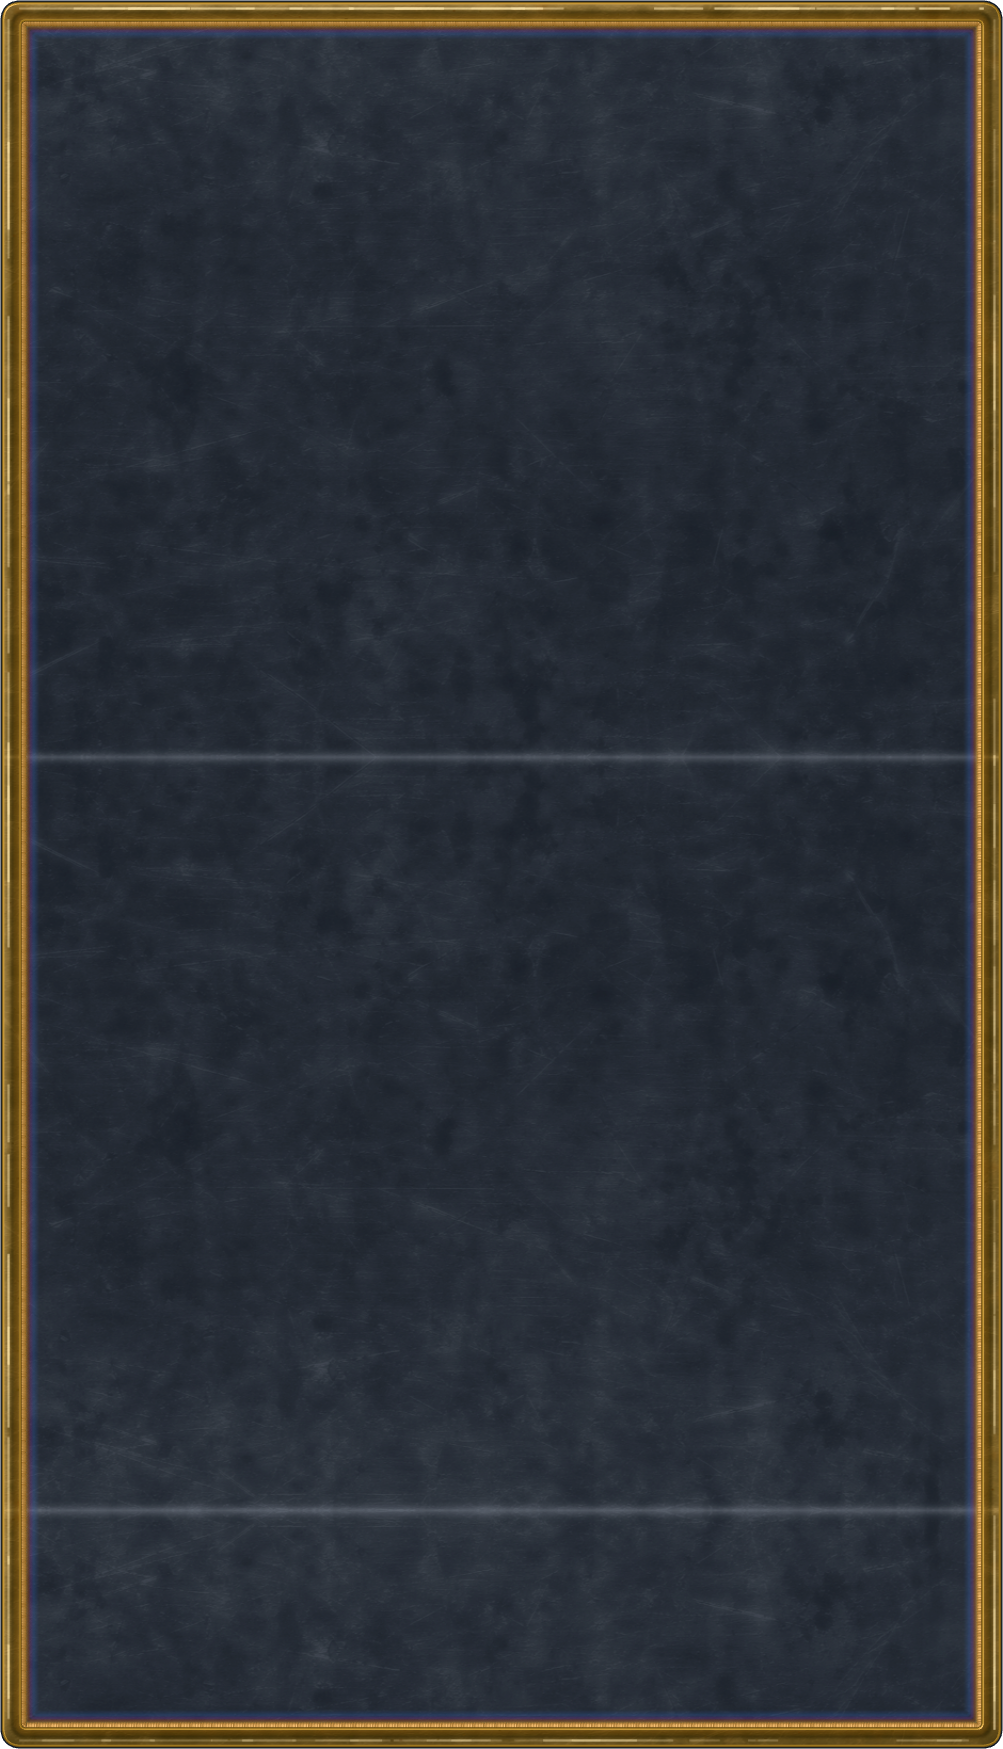
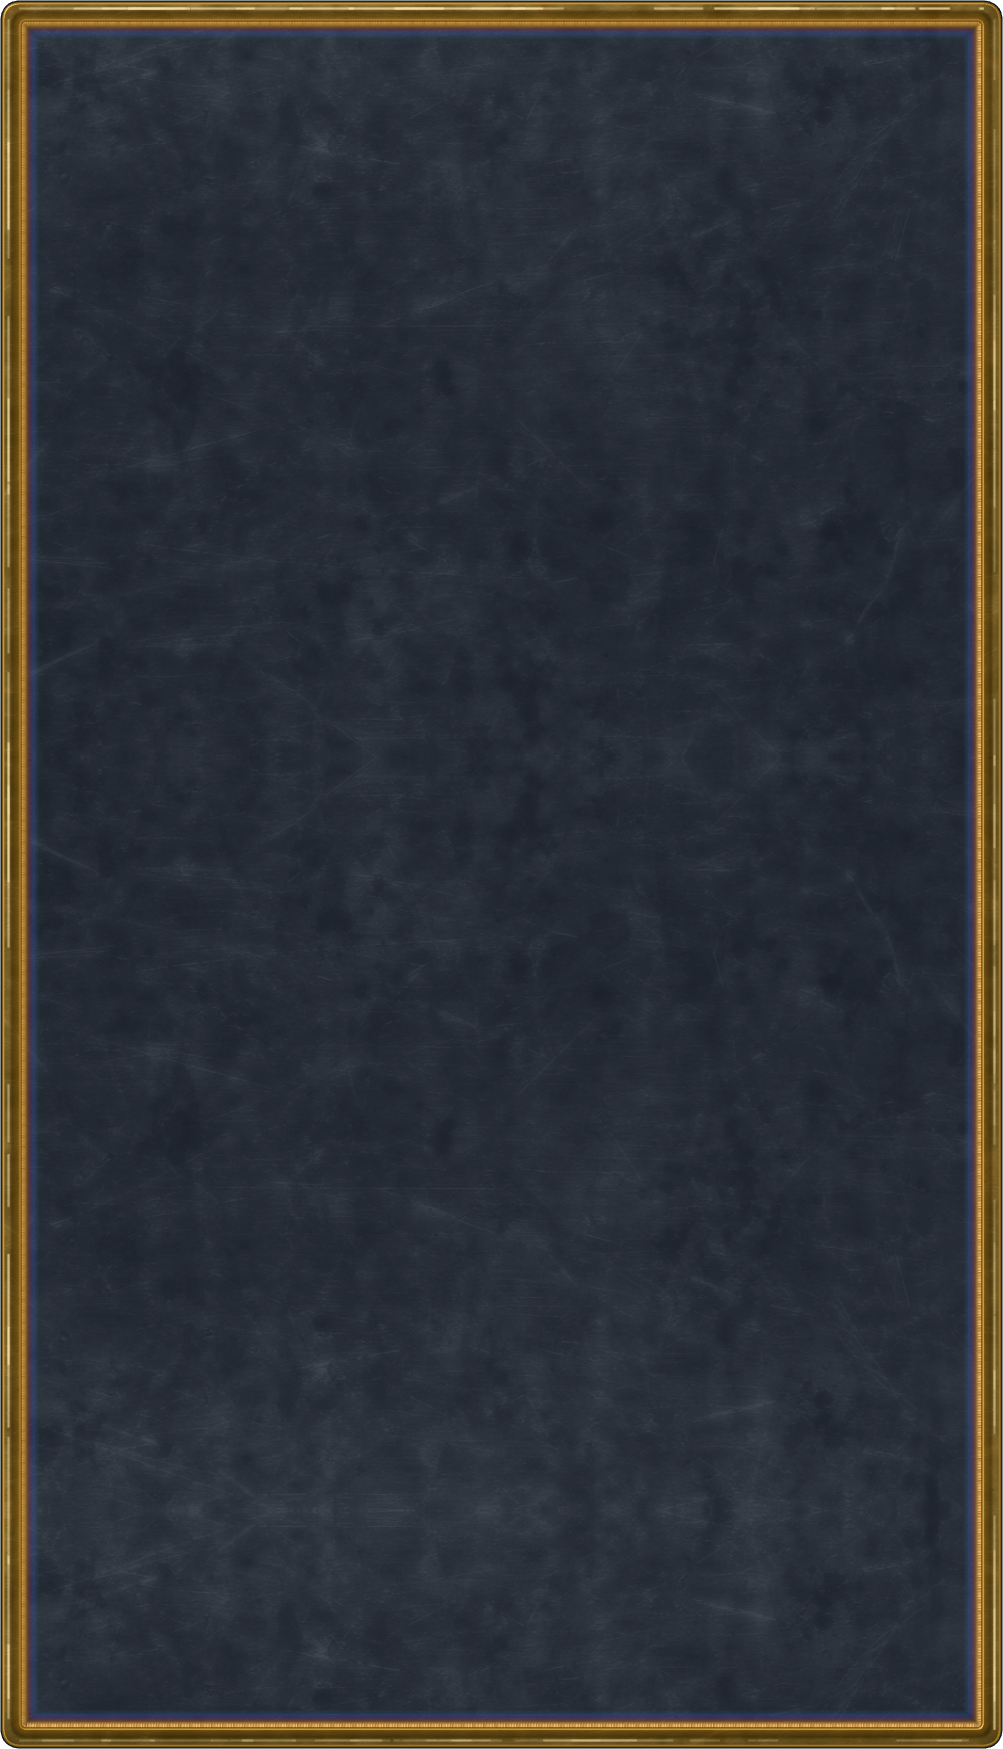
Fix the backing's light seam and a gauge socket left below its gauge
The panel backing's steel was blurred on its own, so the blur faded the
texture's edges, and the plate repeats the texture mirrored: the fade showed
as a light band across the panel partway down. Every steel and brass canvas
in the render now blurs from a mirror-padded copy (drawBlurred), and the
backing is re-rendered.

The cost card painted each gauge's socket from positions read at draw time.
When the rows moved without the card changing size, the socket stayed where
the gauge had been. Each gauge's holder now paints its own socket in its own
coordinates.

diff --git a/price-of-everything-0.1/tools/button_mockup/cluster.html b/price-of-everything-0.1/tools/button_mockup/cluster.html
@@ -139,6 +139,25 @@ function steelTexture(repeatPx) {
   t.repeat.set(1 / repeatPx, 1 / repeatPx); return t;
 }
 /**
+ * Draws the Sunburst texture into `g` through `filter` (a blur among it), blurred from a copy with the
+ * texture mirrored past each edge. A canvas blurred on its own fades at its edges, and the plates repeat
+ * these canvases mirrored, so the fade would show as a bright line across a large plate.
+ */
+let MIRROR_PADDED = null;
+const MIRROR_PAD = 32;
+function drawBlurred(g, filter) {
+  if (MIRROR_PADDED === null) {
+    const w = PLATE_TEX.width, h = PLATE_TEX.height, pad = MIRROR_PAD;
+    MIRROR_PADDED = document.createElement('canvas'); MIRROR_PADDED.width = w + 2 * pad; MIRROR_PADDED.height = h + 2 * pad;
+    const pg = MIRROR_PADDED.getContext('2d');
+    for (const i of [-1, 0, 1]) for (const j of [-1, 0, 1]) {
+      pg.save(); pg.translate(pad + (i ? (i + 1) * w : 0), pad + (j ? (j + 1) * h : 0)); pg.scale(i ? -1 : 1, j ? -1 : 1);
+      pg.drawImage(PLATE_TEX, 0, 0); pg.restore();
+    }
+  }
+  g.filter = filter; g.drawImage(MIRROR_PADDED, -MIRROR_PAD, -MIRROR_PAD);
+}
+/**
  * Softer, lighter steel from the Sunburst texture: brightened and flattened a little, and half of it
  * blended with a blurred copy, so the fine scratches recede and relief shading reads on top.
  */
@@ -146,7 +165,7 @@ STEEL_CANVAS = (() => {
   const c = document.createElement('canvas'); c.width = PLATE_TEX.width; c.height = PLATE_TEX.height;
   const g = c.getContext('2d', { willReadFrequently: true });
   g.filter = 'brightness(1.65) contrast(0.6) saturate(0.7)'; g.drawImage(PLATE_TEX, 0, 0);
-  g.globalAlpha = 0.72; g.filter = 'brightness(1.65) contrast(0.6) saturate(0.7) blur(4px)'; g.drawImage(PLATE_TEX, 0, 0);
+  g.globalAlpha = 0.72; drawBlurred(g, 'brightness(1.65) contrast(0.6) saturate(0.7) blur(4px)');
   return c;
 })();
 /**
@@ -156,7 +175,7 @@ STEEL_CANVAS = (() => {
 const BRASS_CANVAS = (() => {
   const c = document.createElement('canvas'); c.width = PLATE_TEX.width; c.height = PLATE_TEX.height;
   const g = c.getContext('2d', { willReadFrequently: true });
-  g.filter = 'brightness(1.5) contrast(0.5) blur(7px)'; g.drawImage(PLATE_TEX, 0, 0);
+  drawBlurred(g, 'brightness(1.5) contrast(0.5) blur(7px)');
   g.globalAlpha = 0.18; g.filter = 'brightness(1.5) contrast(0.5)'; g.drawImage(PLATE_TEX, 0, 0);
   g.globalAlpha = 1; g.filter = 'none';
   g.globalCompositeOperation = 'multiply'; g.fillStyle = '#d2a85c'; g.fillRect(0, 0, c.width, c.height);
@@ -166,7 +185,7 @@ const BRASS_CANVAS = (() => {
 const NAVY_STEEL_CANVAS = (() => {
   const c = document.createElement('canvas'); c.width = PLATE_TEX.width; c.height = PLATE_TEX.height;
   const g = c.getContext('2d', { willReadFrequently: true });
-  g.filter = 'brightness(1.6) contrast(0.5) blur(7px) grayscale(1)'; g.drawImage(PLATE_TEX, 0, 0);
+  drawBlurred(g, 'brightness(1.6) contrast(0.5) blur(7px) grayscale(1)');
   g.globalAlpha = 0.2; g.filter = 'brightness(1.6) contrast(0.5) grayscale(1)'; g.drawImage(PLATE_TEX, 0, 0);
   g.globalAlpha = 1; g.filter = 'none';
   g.globalCompositeOperation = 'multiply'; g.fillStyle = '#767d88'; g.fillRect(0, 0, c.width, c.height);
@@ -176,7 +195,7 @@ const NAVY_STEEL_CANVAS = (() => {
 const BRASS_TRIM_CANVAS = (() => {
   const c = document.createElement('canvas'); c.width = PLATE_TEX.width; c.height = PLATE_TEX.height;
   const g = c.getContext('2d', { willReadFrequently: true });
-  g.filter = 'brightness(2.1) contrast(0.55) blur(5px)'; g.drawImage(PLATE_TEX, 0, 0);
+  drawBlurred(g, 'brightness(2.1) contrast(0.55) blur(5px)');
   g.globalAlpha = 0.2; g.filter = 'brightness(2.1) contrast(0.55)'; g.drawImage(PLATE_TEX, 0, 0);
   g.globalAlpha = 1; g.filter = 'none';
   g.globalCompositeOperation = 'multiply'; g.fillStyle = '#ecc47a'; g.fillRect(0, 0, c.width, c.height);
@@ -1554,18 +1573,9 @@ function whiteSheet() {
  * are the size of every other plate's).
  */
 const DARK_STEEL_CANVAS = (() => {
-  // Blurred from a copy with mirrored texture past each edge, so the blur doesn't fade the edges: the
-  // plate repeats this canvas mirrored, and a faded edge would show as a bright line across it.
-  const w = PLATE_TEX.width, h = PLATE_TEX.height, pad = 32;
-  const padded = document.createElement('canvas'); padded.width = w + 2 * pad; padded.height = h + 2 * pad;
-  const pg = padded.getContext('2d');
-  for (const i of [-1, 0, 1]) for (const j of [-1, 0, 1]) {
-    pg.save(); pg.translate(pad + (i ? (i + 1) * w : 0), pad + (j ? (j + 1) * h : 0)); pg.scale(i ? -1 : 1, j ? -1 : 1);
-    pg.drawImage(PLATE_TEX, 0, 0); pg.restore();
-  }
-  const c = document.createElement('canvas'); c.width = w; c.height = h;
+  const c = document.createElement('canvas'); c.width = PLATE_TEX.width; c.height = PLATE_TEX.height;
   const g = c.getContext('2d', { willReadFrequently: true });
-  g.filter = 'brightness(1.6) contrast(0.5) blur(7px) grayscale(1)'; g.drawImage(padded, -pad, -pad);
+  drawBlurred(g, 'brightness(1.6) contrast(0.5) blur(7px) grayscale(1)');
   g.globalAlpha = 0.24; g.filter = 'brightness(1.6) contrast(0.55) grayscale(1)'; g.drawImage(PLATE_TEX, 0, 0);
   g.globalAlpha = 1; g.filter = 'none';
   g.globalCompositeOperation = 'multiply'; g.fillStyle = '#6c6e72'; g.fillRect(0, 0, c.width, c.height);

diff --git a/price-of-everything-0.1/docs/ds2-theme.md b/price-of-everything-0.1/docs/ds2-theme.md
@@ -175,7 +175,7 @@ Each entry lists the look, its render set and layers, the Godot script and API, 
 | **LED screen** | a gunmetal bezel round dark glass; seven-segment digits lit in a colour over faint unlit segments; a lit point has room of its own | `screen` → `mini_screen`, `mini_screen_glass` | `BdpV3Led`: `set_figure(text, colour)` (digits, `-`, spaces; `.` lights the point of the digit before it), `figure()`, `cells_for(text)` | every money figure |
 | **£ figure** | a printed £ then an LED screen, padded to a group's digit count | — | `_v3_money_led(figure, colour, digits)` *(panel helper)* | cost prices, economics, the sale price |
 | **Drum counter** | a gunmetal housing, black drums; digits printed live and rolling like an odometer | `counter` → `counter_housing`, `counter_glass` | `BdpV3Counter`: `configure(drums, decimals)`, `set_value(v, from)`, `digits_for`, `drums_for` | labour cost and workers |
-| **Gauge set in a plate** | the panel gauge (bezel, zones, needle, LED) in a chamfered hole cut in the dark plate | `darkplate` → `gauge_socket`; gauge layers in `assets/ui/gauge/` | `PanelGauge` (`scripts/panel_gauge.gd`) held in a trimmed holder; the card paints the socket under it | cost to produce |
+| **Gauge set in a plate** | the panel gauge (bezel, zones, needle, LED) in a chamfered hole cut in the dark plate | `darkplate` → `gauge_socket`; gauge layers in `assets/ui/gauge/` | `PanelGauge` (`scripts/panel_gauge.gd`) held in a trimmed holder, which paints the socket under it | cost to produce |
 | **Value bars** | revenue and costs as two bars on one scale on mini screens; revenue a green slice per good (the good's icon on a rounded tile above), costs in four reds (raised icons above); icons spread and joined by leader lines; a dashed mark at the revenue's end | `econ` → `econ_icon_*` (+ `_shadow`) | `BdpV3ValueBar`: `set_values(econ)`, `rows_for(econ)`, `row_keys(row)`, `row_label(row)`, `icon_centres(row)` | economics |
 | **Indicator** | a raised cream icon and its shadow with a pilot lamp under it; the render scaled so its art, not its frame, fills the icon's box, standing on the lamp; hovered, the icon brightens | `diagicon` → `diag_icon_<key>` (+ `_shadow`) | `BdpV3Indicator`: `configure(px, lamp_scale)`, `set_check(check, face, shadow)` with `{stage, label, detail, tone}`, `art_rect(tex)`, `art_dest()`, `hot`, signals `hovered(ind)` / `unhovered(ind)` | the diagnostics' visual view: 40 px icons, lamps 0.72 |
 | **Readout** | a dark glass screen in the LED screens' gunmetal bezel, a lamp, a name line ("Stage: Check") and up to two lines of detail in white | reuses `mini_screen`, `mini_screen_glass` | `BdpV3Readout`: `show_check(stage, name, detail, tone)`, `shown_name()`, `shown_detail()`, `HEIGHT` | the diagnostics' visual view |
@@ -374,7 +374,8 @@ Each of these cost time once.
 - **A parse error in a tool scene's script makes the scene idle forever:** it loads without its script and never quits. Check `engine.log` for SCRIPT ERROR. macOS has no `timeout`; use Python's `subprocess.run(timeout=...)`.
 - **GDScript runtime errors don't fail a test.** Grep for SCRIPT ERROR, and watch the check count.
 - **A `PlaneGeometry` with a plate material renders flat.** `faceTexture` expects UVs in shape pixels. Use `extrude(rrShape(...))`.
-- **A canvas blurred with `filter: blur()` fades its edges.** When `steelWindow` repeats it mirrored, the fade shows as a bright seam. Mirror-pad before blurring (`DARK_STEEL_CANVAS`). The backing and the action sheets' steel still carry such a seam, a known issue not yet fixed.
+- **A canvas blurred with `filter: blur()` fades its edges.** When `steelWindow` repeats it mirrored, the fade shows as a bright seam. Blur through `drawBlurred`, which mirror-pads the texture first, as every steel and brass canvas now does. The backing carried such a seam, a light band across the panel partway down, until it was re-rendered this way.
+- **A control that paints under another from positions read at draw time goes stale.** When the other moves and the painter keeps its size, nothing redraws the painter. Paint in the moving control's own coordinates instead: each gauge's holder paints its socket.
 - **Scaling a render up blurs it.** Re-render at the size it draws.
 - **Captures can freeze** if the window is hidden or the screen locks or sleeps mid-run: macOS stops the game drawing while no window can be seen, though the run goes on, so every later view repeats one frame. The shot tool now forces a draw before each capture (`_grab`: `RenderingServer.force_draw(false)`). A new capture tool must do the same. Still check that two views differ.
 - **The export server on 8771 may be another agent's.** Its posts would write into their checkout. Use your own port.

diff --git a/price-of-everything-0.1/docs/bdp-v3-control-plates.md b/price-of-everything-0.1/docs/bdp-v3-control-plates.md
@@ -271,7 +271,7 @@ A cable runs down the case's left side (`cableRun`, `bdp_v3_cable.gd`): black ru
 
 ## Cost to produce
 
-The section has its own dark metal plate (`darkPlate`, `dark_plate`, `bdp_v3_section.gd` `style = "dark"`): the backing's steel taken down to a blackened gunmetal, filling the frame's inside with its edges under the rim. The render is one large plain face (900 × 1400) that the game crops from its middle rather than stretching, so its scratches are the size of every other plate's; its steel is blurred from a mirror-padded copy so the mirrored repeat shows no seam. Each output's cost is on a gauge (`scripts/panel_gauge.gd`, 160 px) set into the plate: the card draws the hole cut for it underneath (`gaugeSocket`, `gauge_socket`), a chamfered cut a little wider than the bezel over a dark cavity, so a thin gap shows round the gauge. To the gauge's left is the good's icon, as tall as the gauge's bezel frame and all, set below a thin metal frame (`iconWell`, `icon_well`, a 9-slice drawn over the icon and under any quantity pill): a narrow ring of the keycaps' bezel metal, its shadow on the plate outside, and inside its shadow and a soft shade along the opening, deepest at the top-left, falling onto the icon. The icon's tile takes the opening's corner radius. The row holds only the gauge's bezel and its shadow; the render's empty room round the bezel overhangs its holder.
+The section has its own dark metal plate (`darkPlate`, `dark_plate`, `bdp_v3_section.gd` `style = "dark"`): the backing's steel taken down to a blackened gunmetal, filling the frame's inside with its edges under the rim. The render is one large plain face (900 × 1400) that the game crops from its middle rather than stretching, so its scratches are the size of every other plate's; its steel is blurred from a mirror-padded copy so the mirrored repeat shows no seam. Each output's cost is on a gauge (`scripts/panel_gauge.gd`, 160 px) set into the plate: its holder draws the hole cut for it underneath (`gaugeSocket`, `gauge_socket`), in the holder's own coordinates so the hole moves with the gauge (the card once drew every hole from positions read at draw time and left one a row below its gauge when the rows moved without the card changing size), a chamfered cut a little wider than the bezel over a dark cavity, so a thin gap shows round the gauge. To the gauge's left is the good's icon, as tall as the gauge's bezel frame and all, set below a thin metal frame (`iconWell`, `icon_well`, a 9-slice drawn over the icon and under any quantity pill): a narrow ring of the keycaps' bezel metal, its shadow on the plate outside, and inside its shadow and a soft shade along the opening, deepest at the top-left, falling onto the icon. The icon's tile takes the opening's corner radius. The row holds only the gauge's bezel and its shadow; the render's empty room round the bezel overhangs its holder.
 
 To the right, the unit cost on a mini screen in LED segments as on a digital clock (`miniScreen`, `mini_screen` and `mini_screen_glass`, `bdp_v3_led.gd`): a gunmetal bezel round a recessed pane of dark glass, the digits' seven segments and point lit in the cost's RAG colour over the unlit segments, faint, with the glass's shadow and glare over them, between a printed £ and a small /unit. The segments carry their own light, so the lamp over the panel doesn't dim them (`BdpV3Light.emissive_material()`). An unknown cost reads --.--. Under it, "Market price £Y". The good's name and the percentage against the market are left out.
 
